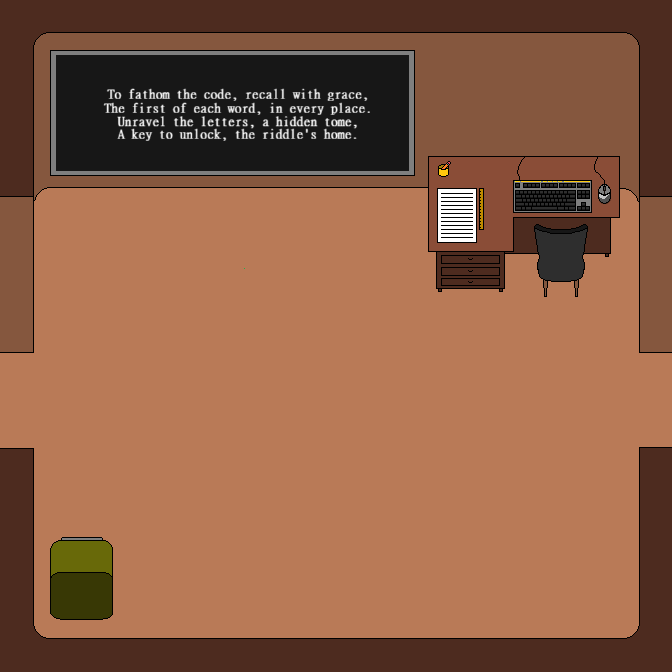
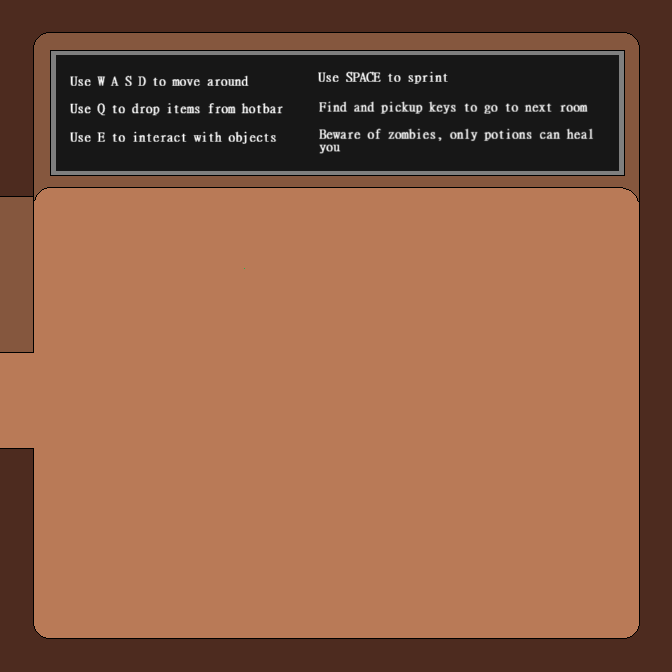
Added tutorial Level and Hallway

Changed region(s): [[0.0938, 0.0625, 1.0, 0.6875], [0.0625, 0.7812, 0.1875, 0.9375], [0.0938, 0.0938, 0.1562, 0.125]]

diff --git a/escape_room.java b/escape_room.java
@@ -74,7 +74,7 @@ public class escape_room extends PApplet {
 
     for (int i = 0; i < intNumLevels; i++) {
 
-      imgLevel[i] = loadImage("escape_room/levels/collisions/level" + i + ".png"); 
+      imgLevelCollision[i] = loadImage("escape_room/levels/collisions/level" + i + ".png"); 
 
     }
 
